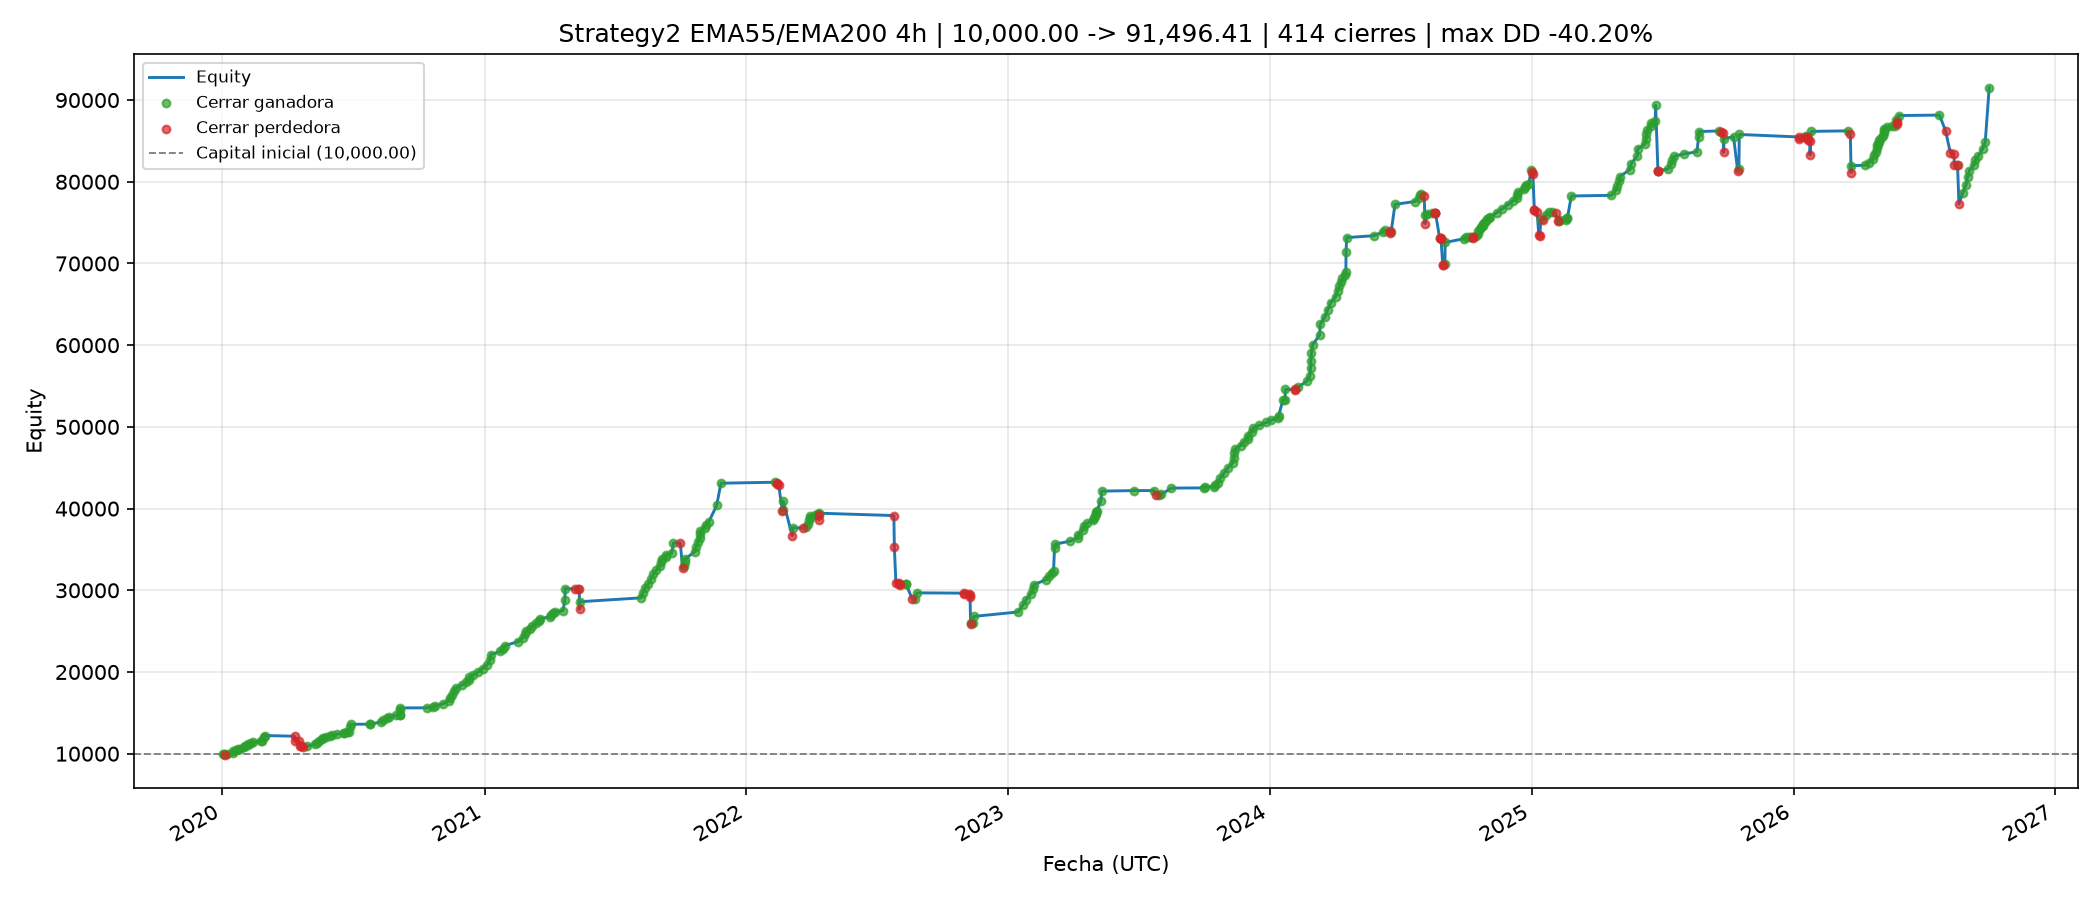
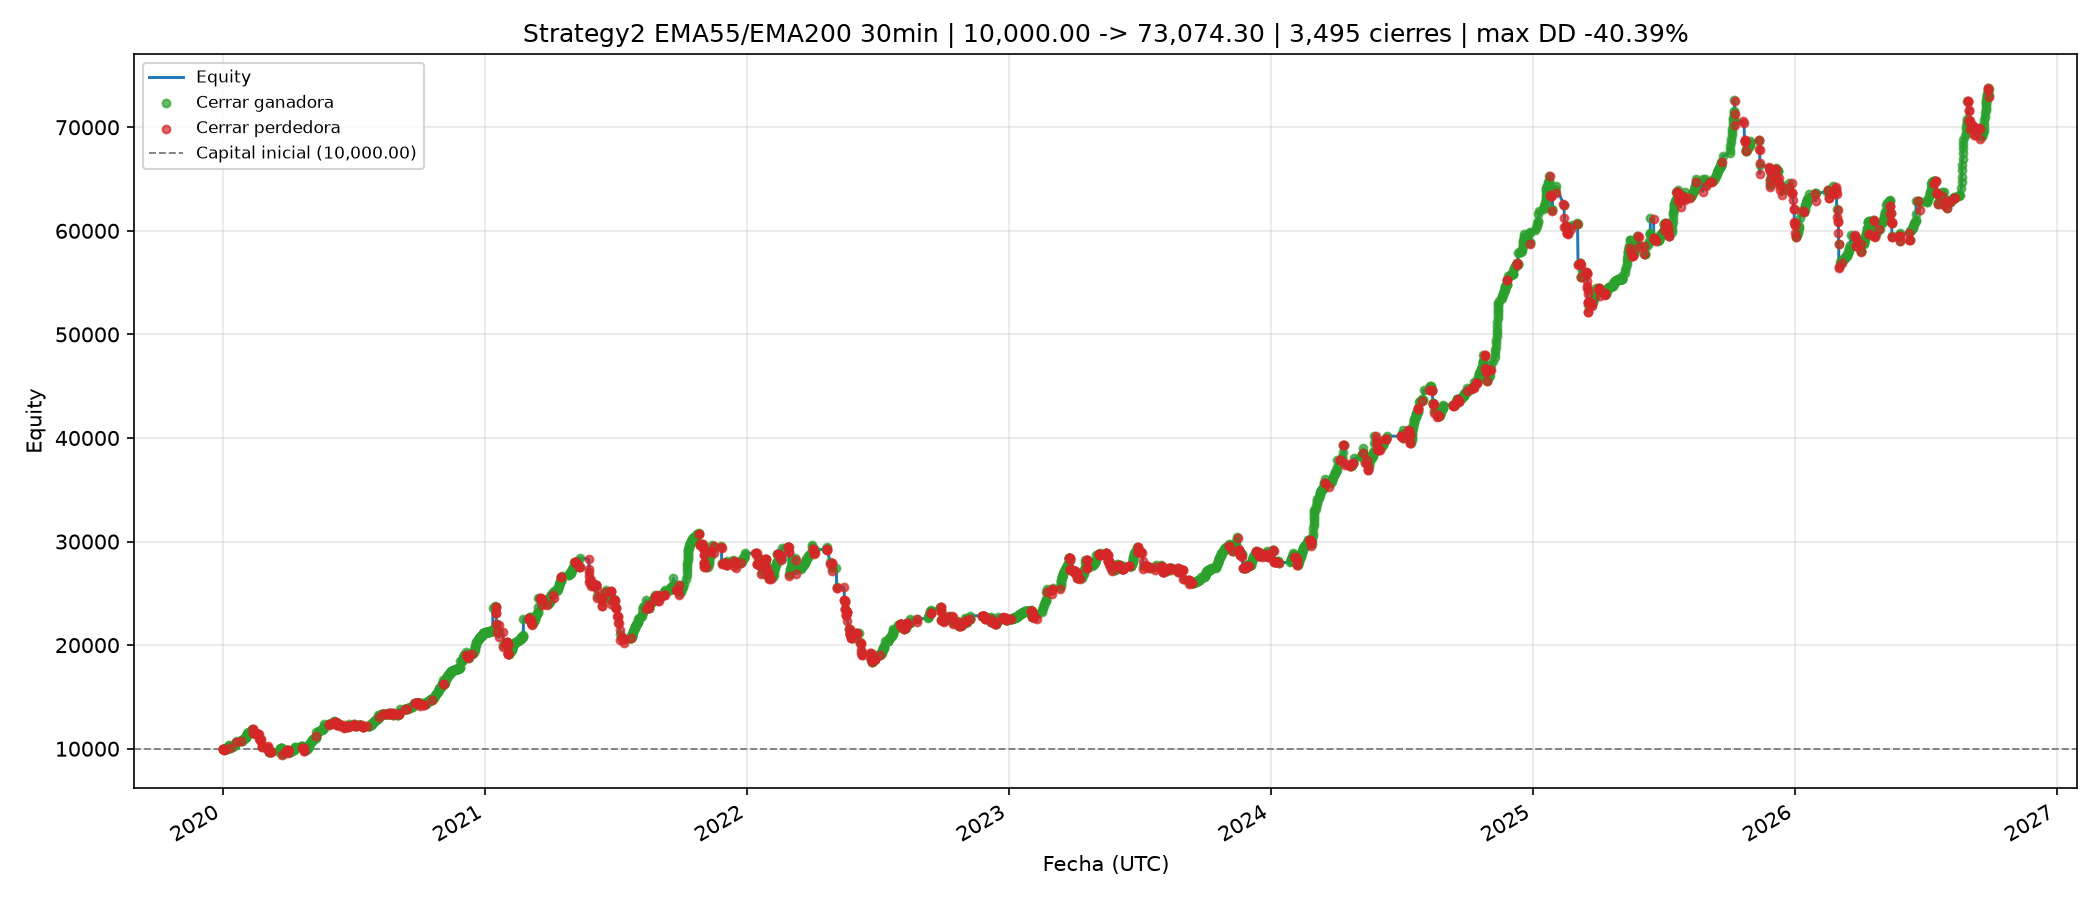
update

diff --git a/backend/services/backtest/bin/legacy/strategy/strategy2.py b/backend/services/backtest/bin/legacy/strategy/strategy2.py
@@ -72,7 +72,7 @@ class Config:
     ema_slow: int = 200
 
     # Timeframe de la estrategia.
-    timeframe: str = "4h"
+    timeframe: str = "30min"
 
     # Lados habilitados.
     allow_long: bool = True
@@ -91,8 +91,8 @@ class Config:
 
     # Salida por reversión del ADX en un timeframe menor (ej. 5m).
     # adx_exit_pct = 100 -> cierre total; < 100 -> salida parcial.
-    adx_exit_enabled: bool = True
-    adx_timeframe: str = "15min"
+    adx_exit_enabled: bool = False
+    adx_timeframe: str = "5min"
     adx_dilen: int = 14
     adx_adxlen: int = 14
     adx_key_level: float = 23.0
